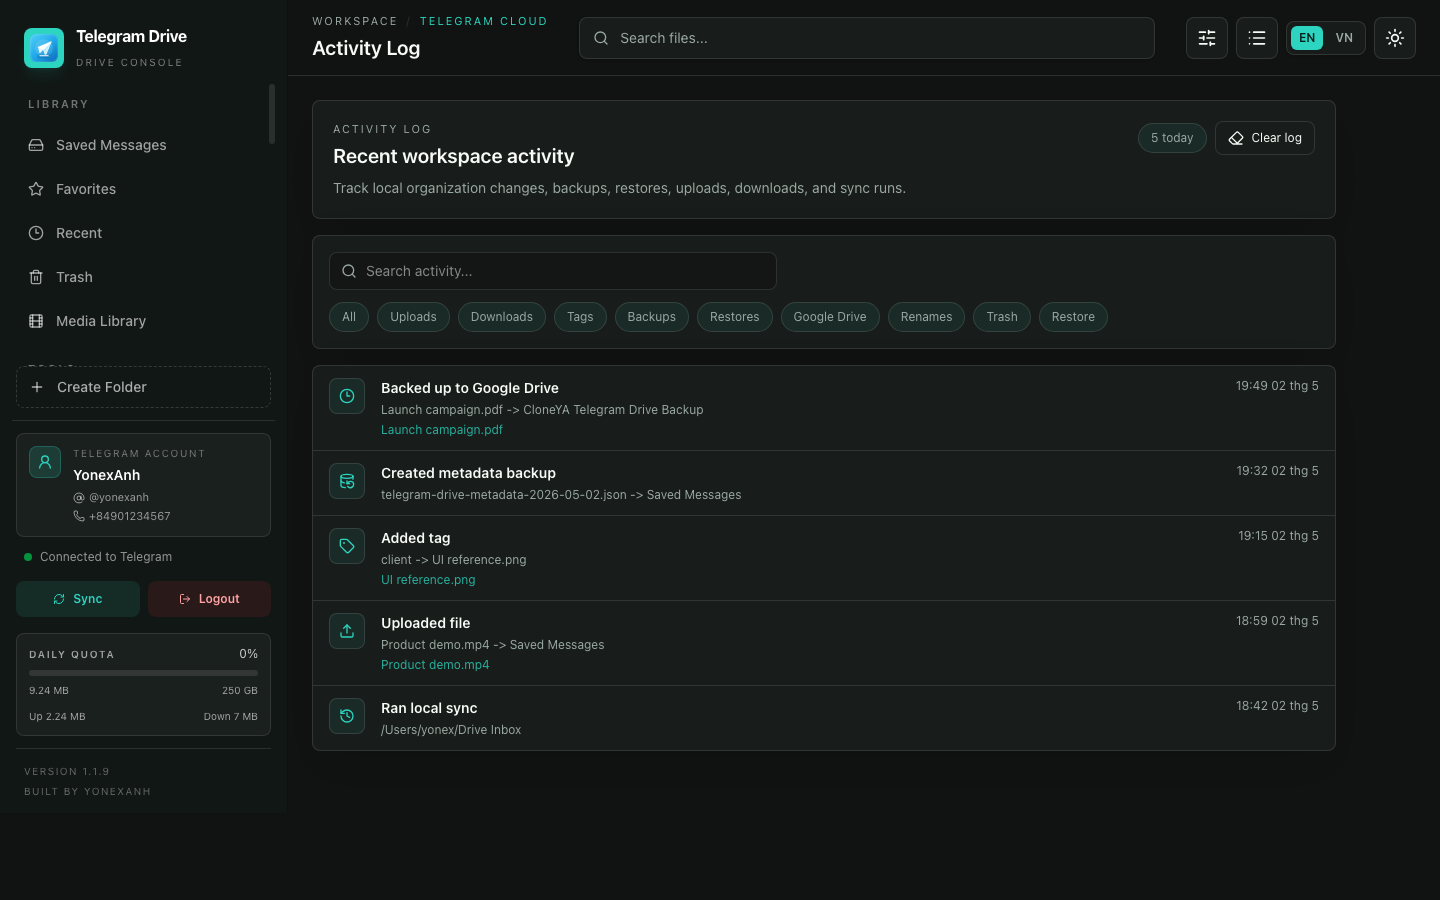
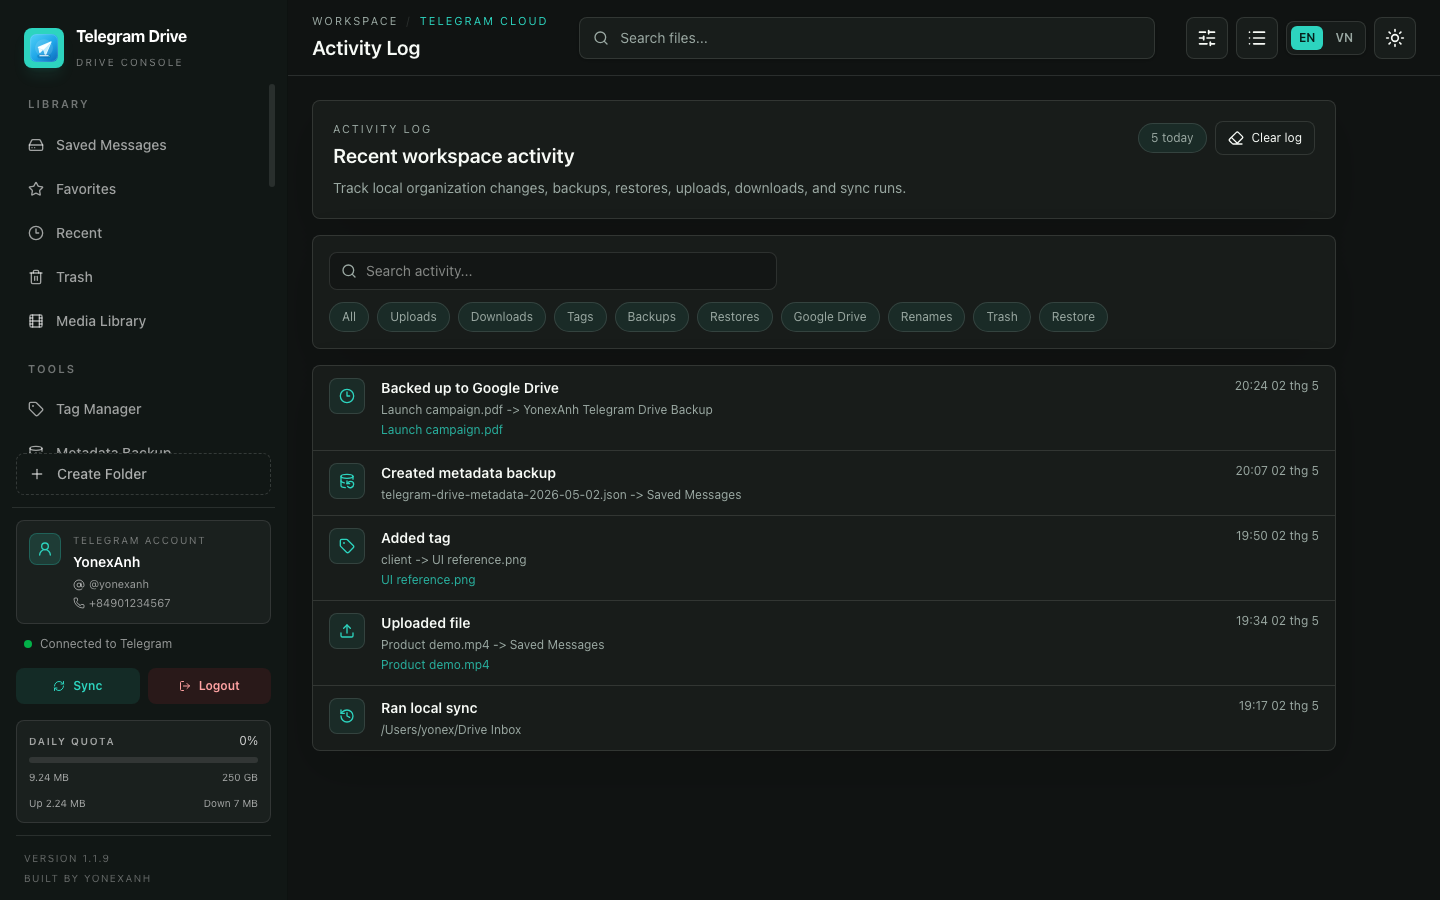
Rename app branding to YonexAnh Telegram Drive

diff --git a/app/src/components/Dashboard.tsx b/app/src/components/Dashboard.tsx
@@ -56,7 +56,7 @@ const DEFAULT_GOOGLE_DRIVE_SETTINGS: GoogleDriveSettings = {
     email: null,
     name: null,
     folderId: null,
-    folderName: 'CloneYA Telegram Drive Backup',
+    folderName: 'YonexAnh Telegram Drive Backup',
     lastBackupAt: null,
     lastBackupResult: null,
 };

diff --git a/README.md b/README.md
@@ -1,6 +1,6 @@
-# CloneYA Telegram Drive
+# YonexAnh Telegram Drive
 
-CloneYA Telegram Drive is a personal desktop app that turns your Telegram account into a practical cloud-drive workspace. It uses Telegram Saved Messages and private Telegram channels as storage locations, then adds a native file-manager experience on top with folders, previews, streaming, transfers, search, sync, and account-aware UI.
+YonexAnh Telegram Drive is a personal desktop app that turns your Telegram account into a practical cloud-drive workspace. It uses Telegram Saved Messages and private Telegram channels as storage locations, then adds a native file-manager experience on top with folders, previews, streaming, transfers, search, sync, and account-aware UI.
 
 ![Platform](https://img.shields.io/badge/platform-macOS%20%7C%20Windows%20%7C%20Linux-blue)
 ![Version](https://img.shields.io/badge/version-1.1.9-2dd4bf)
@@ -11,7 +11,7 @@ CloneYA Telegram Drive is a personal desktop app that turns your Telegram accoun
 
 ## Overview
 
-Telegram already stores your files in the cloud, but the native Telegram clients are not designed like a file manager. CloneYA Telegram Drive provides a desktop interface for browsing, uploading, downloading, previewing, organizing, and streaming those files.
+Telegram already stores your files in the cloud, but the native Telegram clients are not designed like a file manager. YonexAnh Telegram Drive provides a desktop interface for browsing, uploading, downloading, previewing, organizing, and streaming those files.
 
 The app connects directly to Telegram through your own API credentials. Credentials, session files, local metadata, sync settings, and transfer queues stay on your machine.
 
@@ -105,7 +105,7 @@ Screenshots are captured from v1.1.9 with demo files for documentation.
 2. Log in with your Telegram phone number.
 3. Open **API development tools**.
 4. Create an app and copy the **API ID** and **API Hash**.
-5. Paste them into CloneYA Telegram Drive on first launch.
+5. Paste them into YonexAnh Telegram Drive on first launch.
 
 Your API credentials are stored locally by the desktop app.
 
@@ -120,7 +120,7 @@ Setup:
 3. Configure the OAuth consent screen for your Google account.
 4. Create an OAuth Client ID with application type **Desktop app**.
 5. Copy the Client ID.
-6. In CloneYA Telegram Drive, open **Google Drive** from the Tools section, paste the Client ID, and connect.
+6. In YonexAnh Telegram Drive, open **Google Drive** from the Tools section, paste the Client ID, and connect.
 
 The app uses a local loopback OAuth callback and requests the `drive.file` scope so it can create or access files it manages in your Google Drive. Tokens are stored locally on your device.
 
